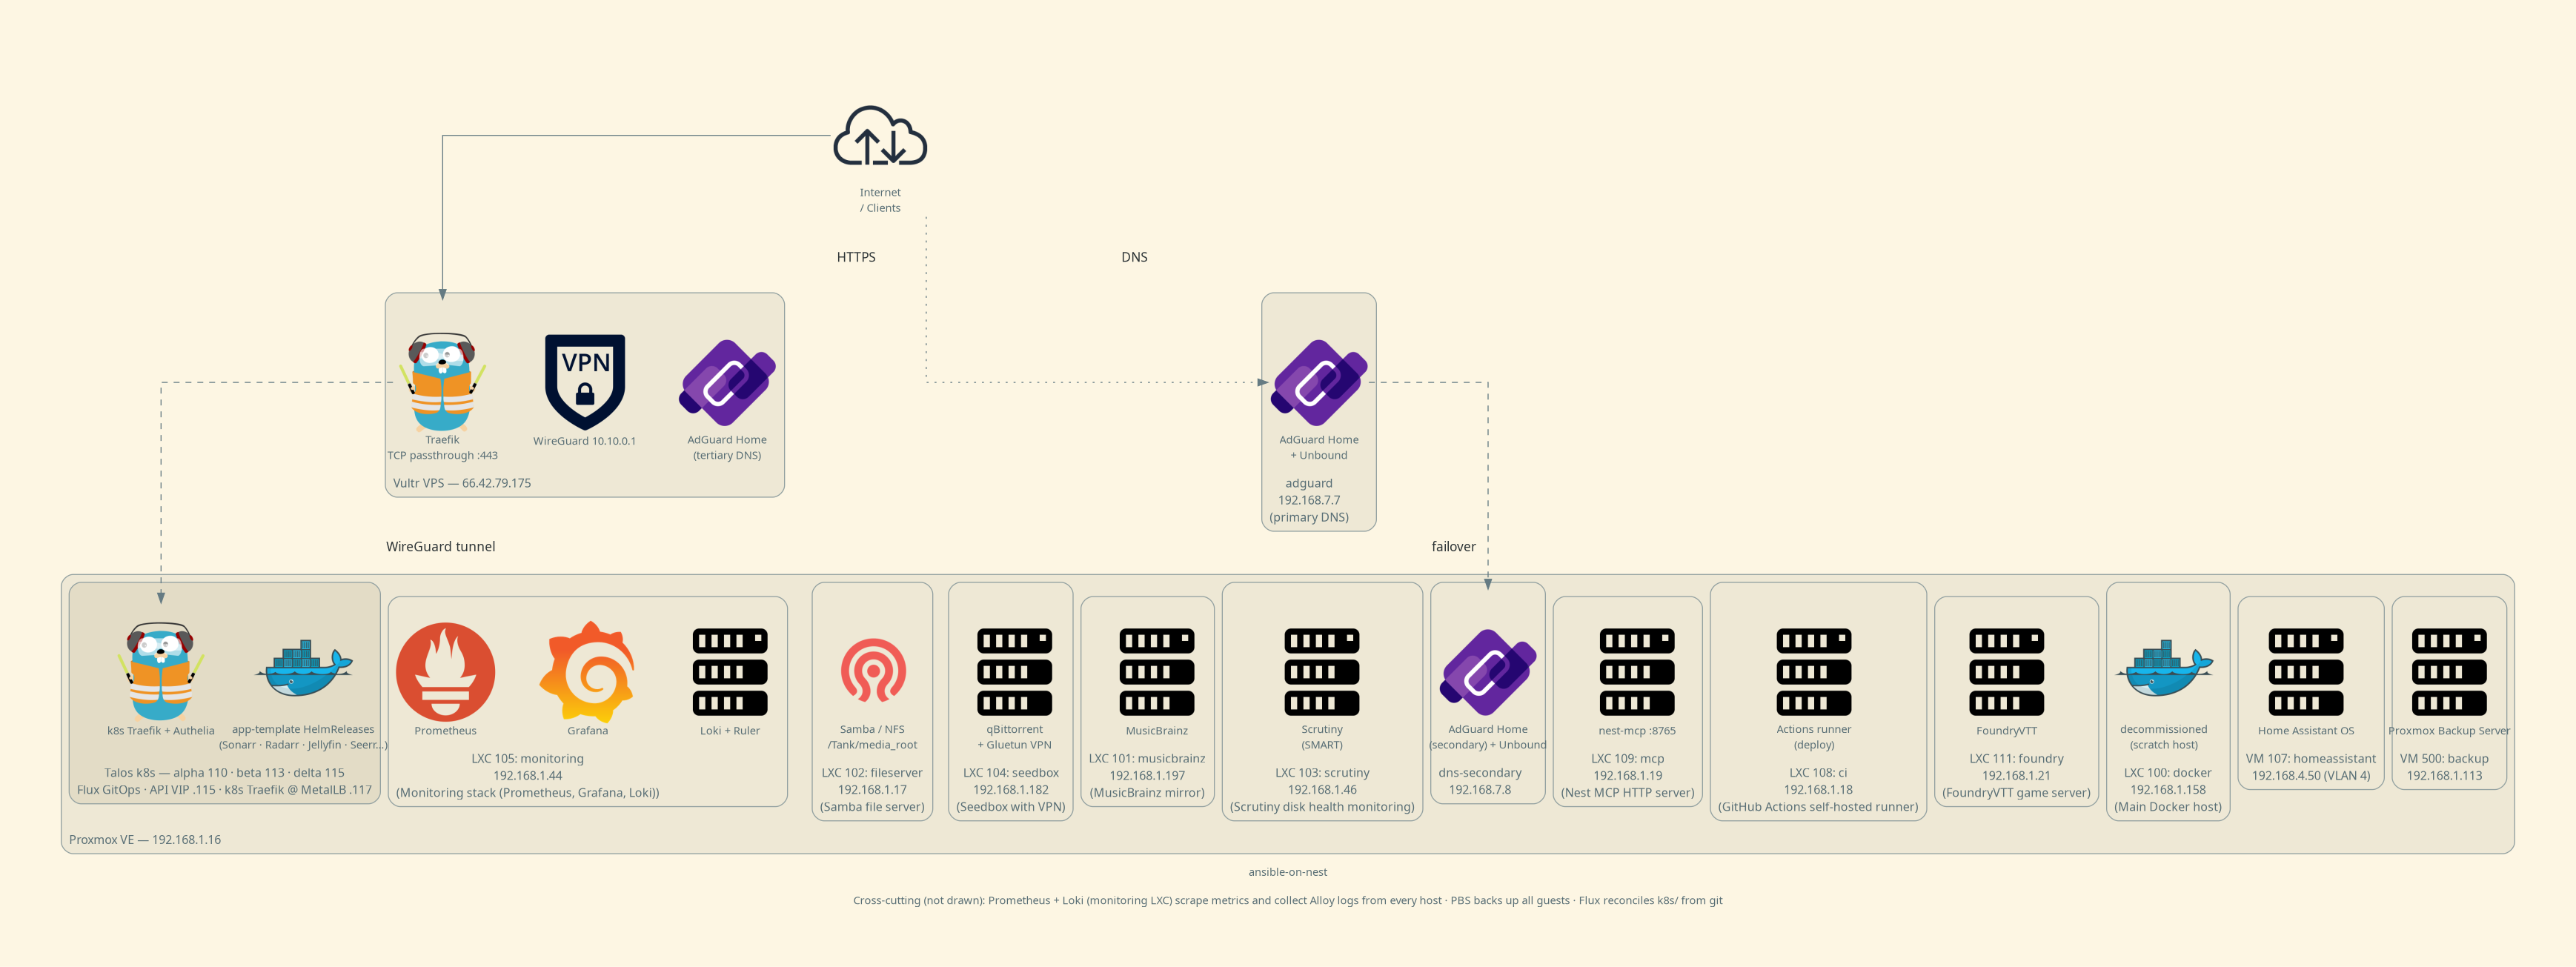
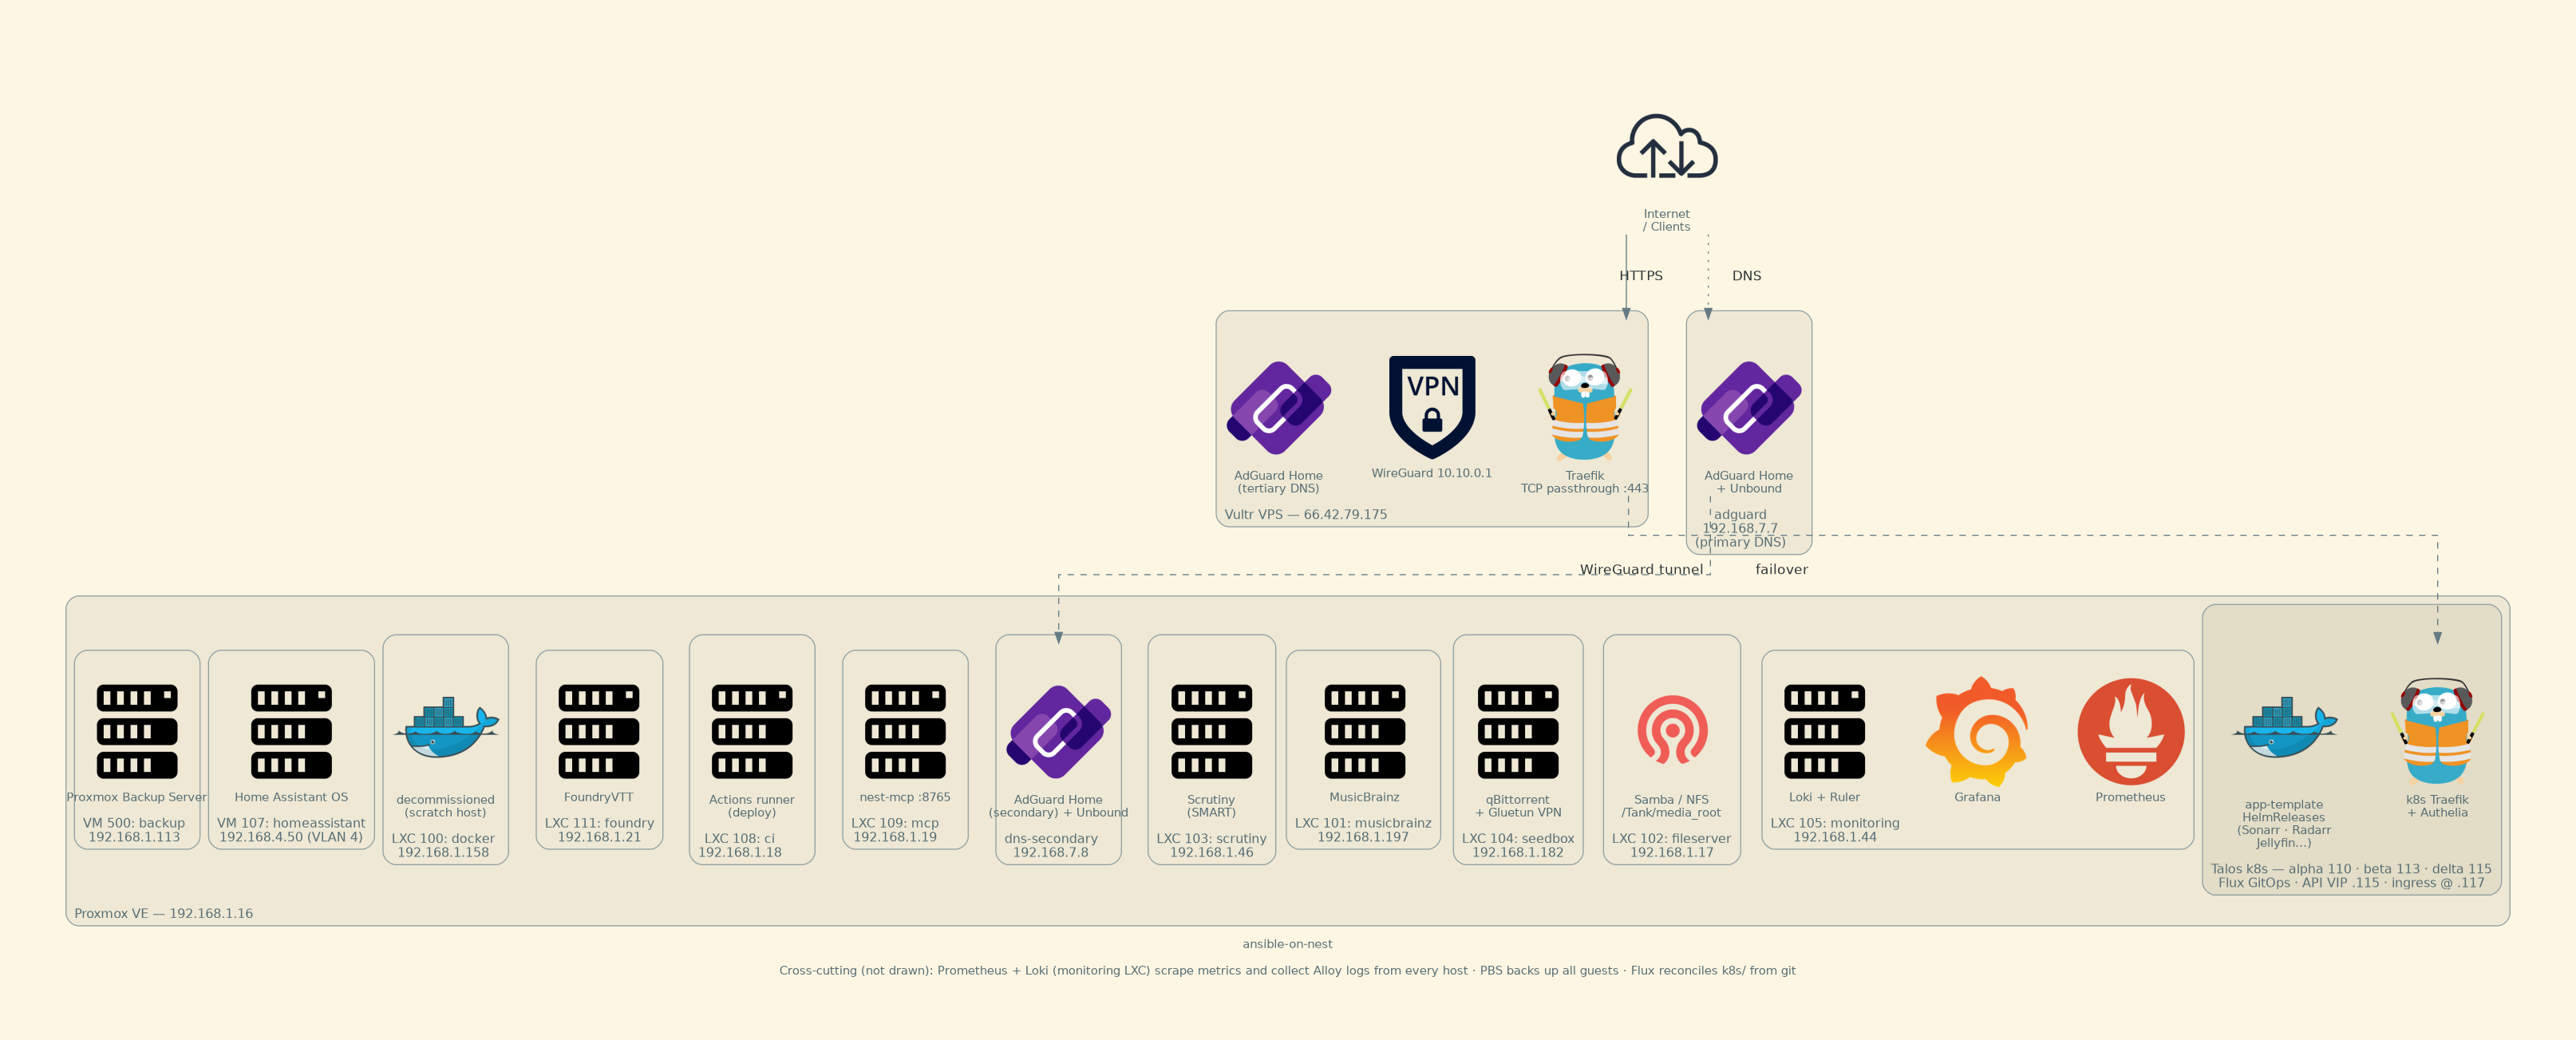
fix(diagram): trim cluster labels that overflowed the frame (#210)
* fix(diagram): trim cluster labels that overflowed the frame

The LXC cluster headers appended the terraform `description` in parens, which
is wider than the single-icon cluster body and spilled past the box. Drop it
from lxc_label (the icon + node label already say what each host does) and wrap
the two longest hand-written labels (Talos cluster header, app-template node).
Topology-view labels are now just "LXC <vmid>: <name>" + IP.

* chore: regenerate architecture diagrams

---------

diff --git a/scripts/generate_diagram.py b/scripts/generate_diagram.py
@@ -98,13 +98,13 @@ def parse_tf_lxcs(tf_dir: Path) -> dict[str, dict]:
 # ---------------------------------------------------------------------------
 
 def lxc_label(name: str, hosts: dict, lxcs: dict) -> str:
+    # "LXC <vmid>: <name>" + IP only. The terraform description is deliberately
+    # omitted: it's wider than the single-icon cluster body and overflows the
+    # frame, and the icon + node label inside already say what the host does.
     vmid = lxcs.get(name, {}).get("vmid")
     ip   = hosts.get(name, {}).get("ip", "")
-    desc = lxcs.get(name, {}).get("description", "")
     prefix = f"LXC {vmid}: {name}" if vmid else name
     parts = [prefix, ip]
-    if desc:
-        parts.append(f"({desc})")
     return "\n".join(p for p in parts if p)
 
 
@@ -157,10 +157,10 @@ def generate_full(hosts: dict, lxcs: dict, out_dir: Path, fmt: str) -> None:
         with Cluster("Proxmox VE — 192.168.1.16", graph_attr=CLUSTER):
 
             with Cluster("Talos k8s — alpha 110 · beta 113 · delta 115\n"
-                         "Flux GitOps · API VIP .115 · k8s Traefik @ MetalLB .117",
+                         "Flux GitOps · API VIP .115 · ingress @ .117",
                          graph_attr=CLUSTER_INNER):
-                nest_traefik = Traefik("k8s Traefik + Authelia")
-                Docker("app-template HelmReleases\n(Sonarr · Radarr · Jellyfin · Seerr…)")
+                nest_traefik = Traefik("k8s Traefik\n+ Authelia")
+                Docker("app-template\nHelmReleases\n(Sonarr · Radarr\nJellyfin…)")
 
             with Cluster(lxc_label("monitoring", hosts, lxcs), graph_attr=CLUSTER):
                 Prometheus("Prometheus")